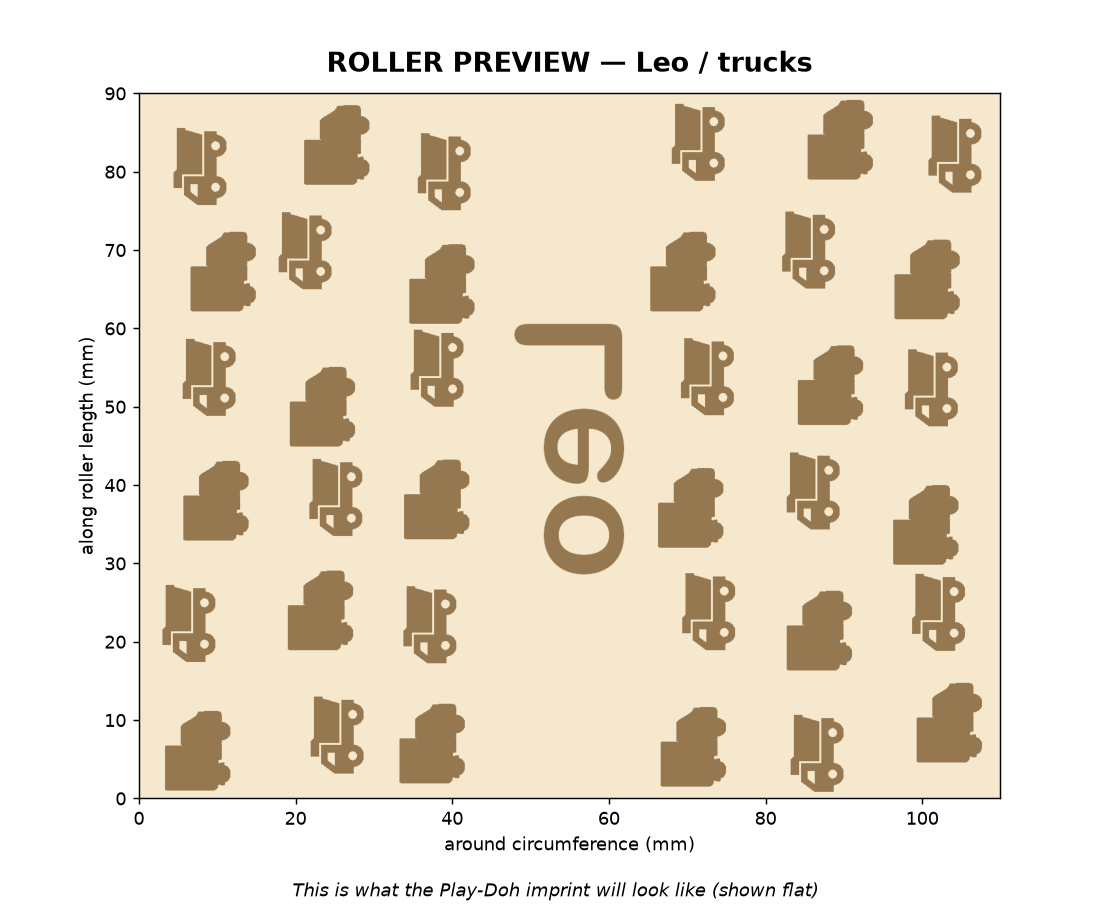
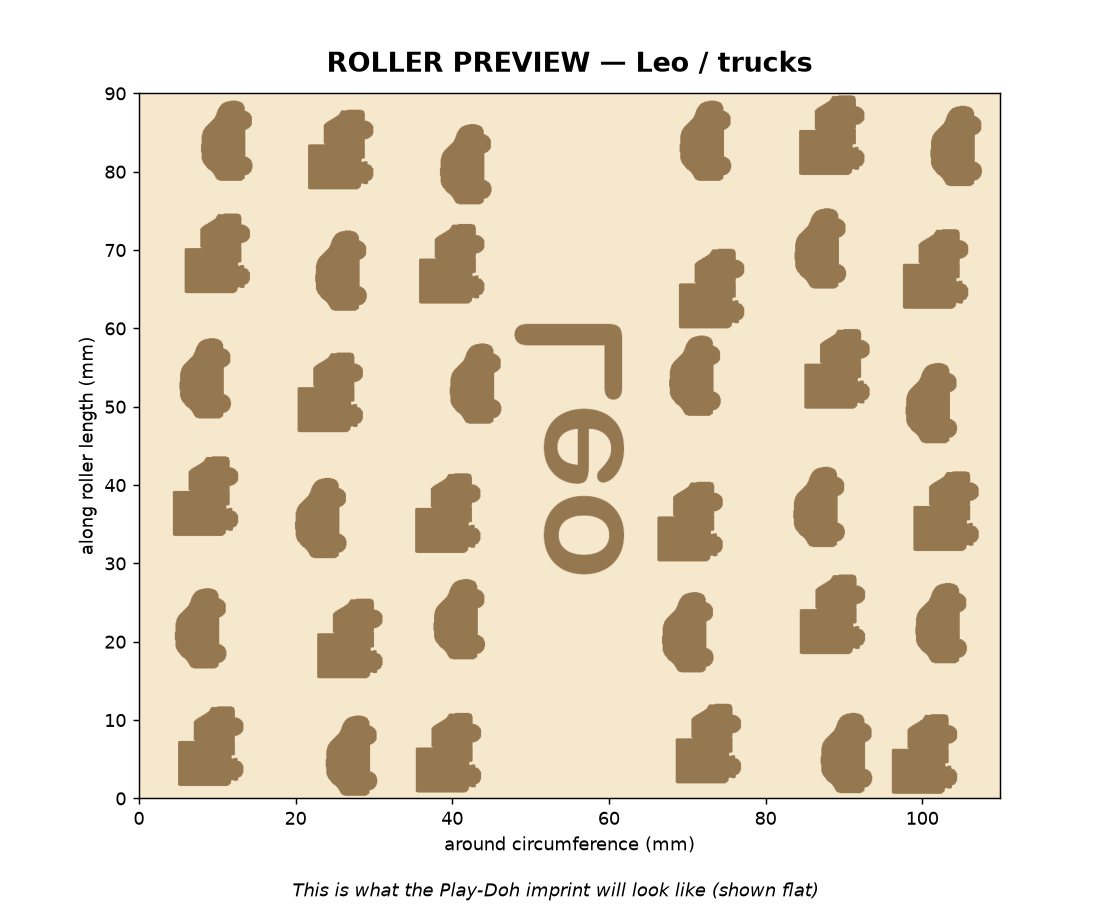
trucks theme: delivery truck + car (drop dump truck)
Per design review, the trucks theme now alternates a delivery truck and a
rounded car (noto:automobile) instead of the dump truck. Regenerated Leo and
Caleb previews; updated assets, ATTRIBUTION, README, and SKILL.

diff --git a/playdoh_roller.py b/playdoh_roller.py
@@ -116,7 +116,7 @@ THEMES = {
                          ("heart.svg", "evenodd")],
     "cats":             [("cat.svg", "evenodd"), ("paw.svg", "evenodd")],
     "fruits":           [("banana.svg", "union"), ("apple.svg", "union")],
-    "trucks":           [("truck.svg", "union"), ("dumptruck.svg", "evenodd")],
+    "trucks":           [("truck.svg", "union"), ("car.svg", "union")],
 }
 
 

diff --git a/SKILL.md b/SKILL.md
@@ -1,6 +1,6 @@
 ---
 name: playdoh-roller
-description: Generate a parametric, personalized Play-Doh roller (preview PNG and printable STL) with a name embossed lengthways and a themed decoration pattern (bees & flowers, dinosaurs, shapes, cats, fruits).
+description: Generate a parametric, personalized Play-Doh roller (preview PNG and printable STL) with a name embossed lengthways and a themed decoration pattern (bees & flowers, dinosaurs, shapes, cats, fruits, trucks).
 ---
 
 # Play-Doh Roller Generator
@@ -56,7 +56,7 @@ flags is required.
 | Flag | Default | Meaning |
 |---|---|---|
 | `--name` | `Ember` | Name embossed lengthways along the roller |
-| `--theme` | `bees_and_flowers` | One of: `bees_and_flowers`, `dinosaurs`, `shapes`, `cats`, `fruits` |
+| `--theme` | `bees_and_flowers` | One of: `bees_and_flowers`, `dinosaurs`, `shapes`, `cats`, `fruits`, `trucks` |
 | `--radius` | `17.5` | Roller barrel radius in mm (35 mm diameter) |
 | `--length` | `90` | Usable imprint length in mm |
 | `--handle-length` | `22` | Length of each handle end, mm |
@@ -126,6 +126,7 @@ Decorations are SVG icons in `assets/`, rasterized to bold silhouette stamps:
 | `shapes` | circle, square, triangle, star, heart (evenodd) |
 | `cats` | cat.svg (evenodd), paw.svg (evenodd) |
 | `fruits` | banana.svg (union), apple.svg (union) |
+| `trucks` | truck.svg (union), car.svg (union) |
 
 `mode` controls fill: **evenodd** keeps interior holes (single-colour icons);
 **union** flattens all sub-paths into one solid silhouette (used for multicolour

diff --git a/README.md b/README.md
@@ -87,7 +87,7 @@ Outputs are named `preview_<name>_<theme>.png` and `roller_<name>_<theme>.stl`.
 | ⭐ `shapes` | circle, square, triangle, star, heart |
 | 🐱 `cats` | cat face + paw print |
 | 🍎 `fruits` | apple + banana |
-| 🚚 `trucks` | delivery truck + dump truck |
+| 🚚 `trucks` | delivery truck + car |
 
 Decorations are **real, open-licensed silhouette icons** (not hand-drawn),
 rasterized from the SVGs in [`assets/`](assets) — see

diff --git a/assets/ATTRIBUTION.md b/assets/ATTRIBUTION.md
@@ -20,7 +20,7 @@ as bold silhouette stamps.
 | star.svg | mdi:star | Material Design Icons | Apache 2.0 |
 | heart.svg | mdi:heart | Material Design Icons | Apache 2.0 |
 | truck.svg | noto:delivery-truck | Google Noto Emoji | Apache 2.0 / CC BY 4.0 |
-| dumptruck.svg | mdi:dump-truck | Material Design Icons | Apache 2.0 |
+| car.svg | noto:automobile | Google Noto Emoji | Apache 2.0 / CC BY 4.0 |
 
 Multicolor Noto emoji are flattened to a single silhouette (union of all
 sub-paths) at rasterization time. All other icons are single-colour and use